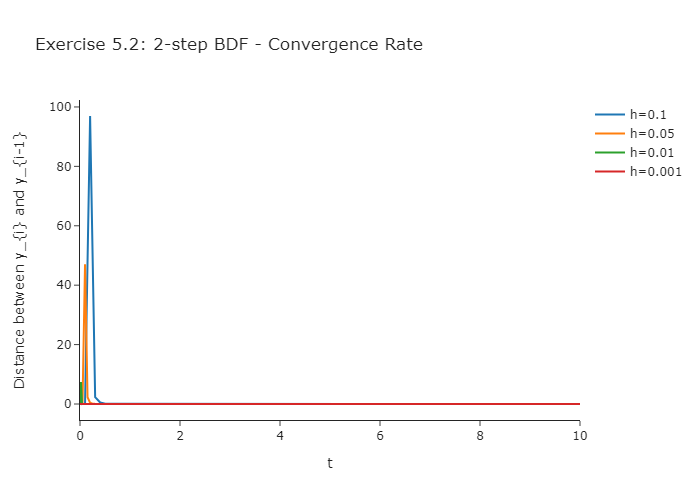
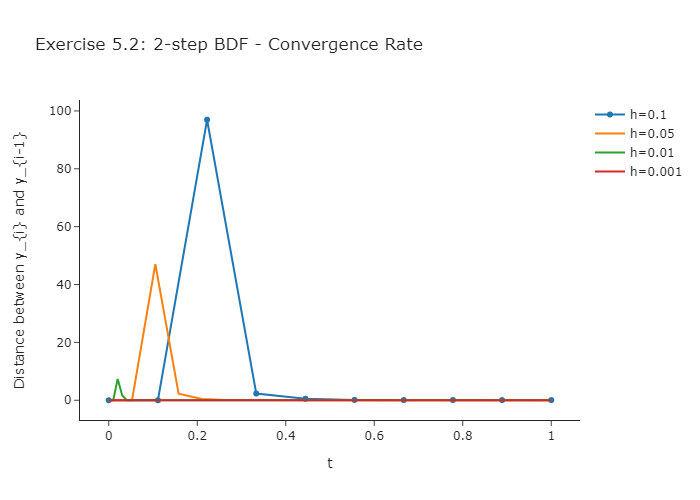
Fixed exercise 5_2, added 5_3

diff --git a/exercise5-2.py b/exercise5-2.py
@@ -5,49 +5,21 @@ import plotly.graph_objects as go
 
 
 def explicit_euler(f, y0, t0, t1, h):
-    """
-    Explicit Euler method for a differential equation: y' = f(t, y).
-    :param f: function
-    :param y0: float or int, initial value y(t0)=y0
-    :param t0: float or int, start of interval for parameter t
-    :param t1: float or int, end of interval for parameter t
-    :param h: float or int, step-size
-    :return: two lists of floats, approximation of y at interval t0-t1 in step-size h and interval
-    """
-    N = int(np.ceil((t1 - t0) / h))
+    n = int(np.ceil((t1 - t0) / h))
+    if np.ndim(y0) == 0:
+        m = 1
+    else:
+        m = len(y0)
+    t_list = np.zeros(n + 1)
+    y = np.zeros((m, n + 1))
     t = t0
-    y = [0] * (N + 1)
-    t_list = [0] * (N + 1)
+
     t_list[0] = t0
-    y[0] = y0
-    for k in range(N):
-        y[k + 1] = y[k] + h * f(t, y[k])
+    y[:, 0] = y0
+    for k in range(n):
+        y[:, k + 1] = y[:, k] + h * f(t, y[:, k])
         t = t + h
         t_list[k + 1] = t
-    return np.array(y), t_list
-
-
-def runge_kutta_4(f, y0, t0, t1, h):
-    n_ode = len(y0)
-    nh = int((t1 - t0) / h)
-    t = t0
-    t_list = [t]
-    y = np.zeros((n_ode, nh))
-    y[:, 0] = y0
-
-    a21, a31, a32, a41, a42, a43 = 0.5, 0, 0.5, 0, 0, 1
-    b1, b2, b3, b4 = 1 / 6, 1 / 3, 1 / 3, 1 / 6
-    c1, c2, c3, c4 = 0, 0.5, 0.5, 1
-
-    for i in range(nh):
-        tau1, tau2, tau3, tau4 = t + c1 * h, t + c2 * h, t + c3 * h, t + c4 * h
-        Y1 = y[:, i - 1]
-        Y2 = y[:, i - 1] + h * (a21 * f(tau1, Y1))
-        Y3 = y[:, i - 1] + h * (a31 * f(tau1, Y1) + a32 * f(tau2, Y2))
-        Y4 = y[:, i - 1] + h * (a41 * f(tau1, Y1) + a42 * f(tau2, Y2) + a43 * f(tau3, Y3))
-        y[:, i] = y[:, i - 1] + h * (b1 * f(tau1, Y1) + b2 * f(tau2, Y2) + b3 * f(tau3, Y3) + b4 * f(tau4, Y4))
-        t = t + h
-        t_list.append(t)
     return y, t_list
 
 
@@ -65,7 +37,7 @@ def bdf_2step(f, y0, t0, t1, h):
     y = np.zeros((m, n + 1))
     e = np.zeros(n + 1)
 
-    y[:, 0:2] = np.array(explicit_euler(f, y0, t0, t0 + h, h)[0]).transpose()
+    y[:, 0:2] = np.array(explicit_euler(f, y0, t0, t0 + h, h)[0])
 
     for i in range(2, n):
         t_i = t[i]
@@ -93,12 +65,16 @@ def f(t, y):
 
 fig = go.Figure()
 fig_e = go.Figure()
+fig_euler = go.Figure()
 
 for h in [0.1, 0.05, 0.01, 0.001]:
-    y_bdf, t_bdf, e_bdf = bdf_2step(y_dash, [2, 1], 0, 10, h)
+    y_bdf, t_bdf, e_bdf = bdf_2step(y_dash, [2, 1], 0, 1, h)
 
     fig.add_trace(go.Scatter(x=y_bdf[0, :], y=y_bdf[1, :], name=f"h={h}"))
     fig_e.add_trace(go.Scatter(x=t_bdf, y=e_bdf, name=f"h={h}"))
+
+y_ee, t_ee = explicit_euler(y_dash, [2, 1], 0, 1, 0.1)
+fig_euler.add_trace(go.Scatter(x=y_ee[:, 0], y=y_ee[:, 1], name=f"h={0.001}"))
 
 fig.update_layout(title={'text': f"Exercise 5.2: 2-step BDF - Plotting y_1 against y_2"},
                   xaxis_title='y_1',
@@ -110,5 +86,11 @@ fig_e.update_layout(title={'text': f"Exercise 5.2: 2-step BDF - Convergence Rate
                     yaxis_title='Distance between y_{i} and y_{i-1}',
                     template='simple_white'
                     )
+fig_euler.update_layout(title={'text': f"Exercise 5.2: Explicit Euler"},
+                        xaxis_title='y_1',
+                        yaxis_title='y_2',
+                        template='simple_white'
+                        )
 fig.write_image(f"exercise5-2_charts/exercise5_2_y.png")
 fig_e.write_image(f"exercise5-2_charts/exercise5_2_e.png")
+fig_euler.write_image(f"exercise5-2_charts/exercise5_2_euler.png")

diff --git a/exercise5-3.py b/exercise5-3.py
@@ -1,0 +1,47 @@
+import numpy as np
+from scipy.optimize import fsolve
+from scipy.spatial.distance import euclidean
+import plotly.graph_objects as go
+
+
+def explicit_euler_step_size_control(f, y0, t0, t1, h):
+    N = int(np.ceil((t1 - t0) / h))
+    t = t0
+    y = [0] * (N + 1)
+    t_list = [0] * (N + 1)
+    t_list[0] = t0
+    h_list = []
+    y[0] = y0
+    eps_min = 10**(-2)
+    eps_max = 10**(-4)
+    h_min = h * 10**(-2)
+    h_max = h * 10**2
+
+    k = 0
+    while t < t1:
+
+        y_h = y[k] + h * f(t, y[k])
+        y_h_half = y[k] + h/2 * f(t, y[k])
+        error = abs(2*y_h_half - y_h)
+
+        if error < eps_min and h < h_max:
+            h *= 2
+
+        elif error > eps_max and h > h_min:
+            h /= 2
+
+        else:
+            y[k + 1] = y_h
+            t = t + h
+            t_list[k + 1] = t
+            h_list.append(h)
+            k += 1
+
+    return np.array(y), t_list, h_list
+
+
+def y_dash(t, y):
+    return (1 - y/100)*y
+
+
+y, t, h = explicit_euler_step_size_control(y_dash, 1, )
